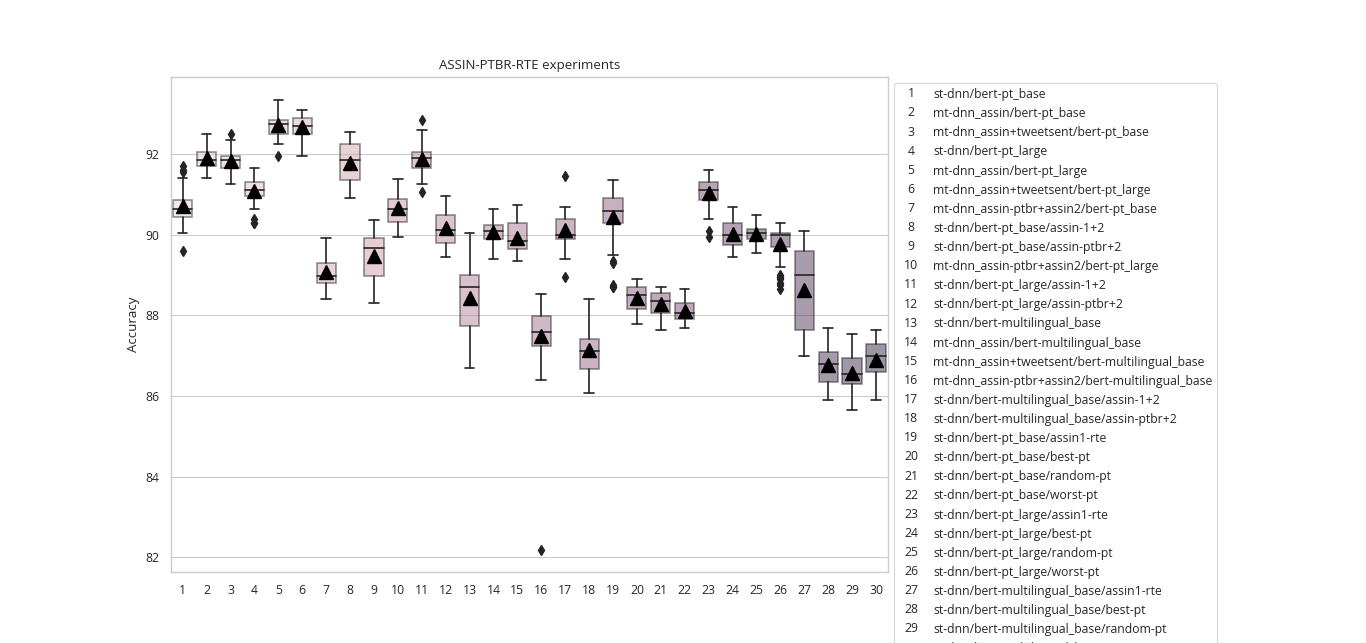
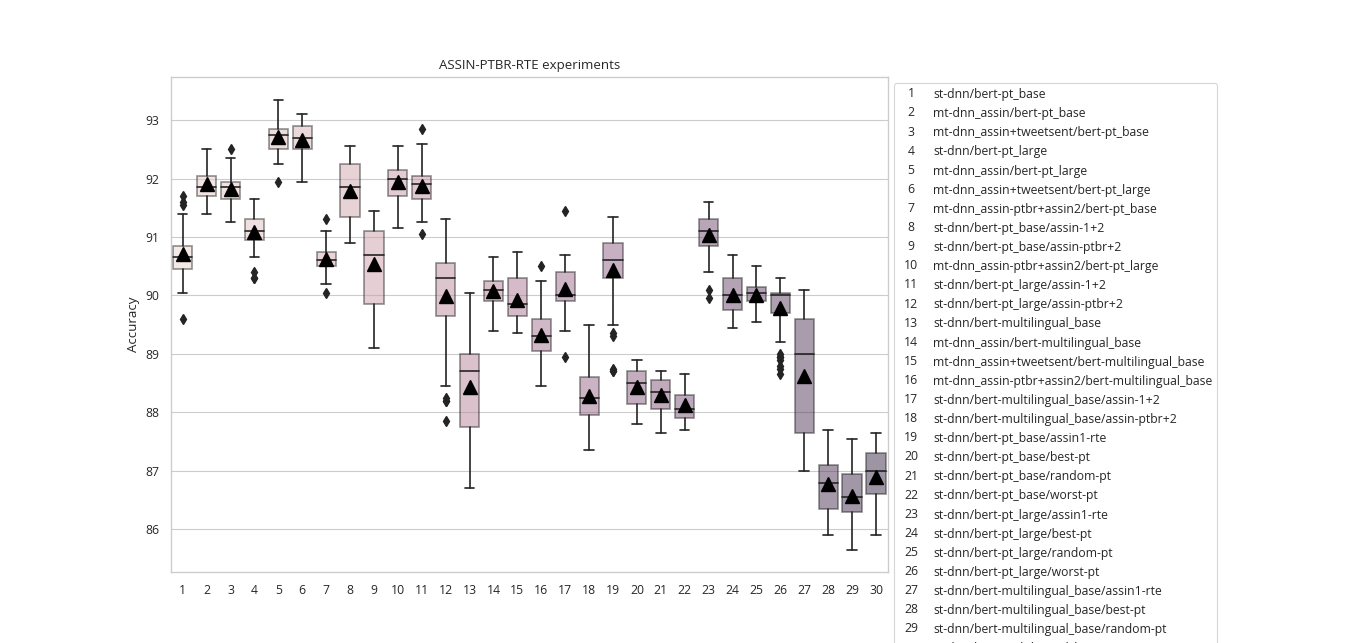
correct task selection

diff --git a/boxplot.py b/boxplot.py
@@ -67,7 +67,7 @@ def get_metric(task: str, task_name: str, metric_idx: int) -> tuple:
 def get_evals(report: str, task_name: str, model_set: set):
     tasks = re.split('corpus.*|Saving generated XMLs...', report)
     tasks = [task for task in tasks
-             if task_name in task and any(model in task for model in model_set)]
+             if f'{task_name}_eval.txt' in task and any(model in task for model in model_set)]
     pattern = re.compile(r'report/(.*?/.*?)/.*/dropout/\d+\.\d+(/*.*)/.*?txt')
     evals = {re.search(pattern, task).group(1) + re.search(pattern, task).group(2): task
              for task in tasks}
@@ -97,7 +97,6 @@ def get_scores_dict(filepath: str, task_name: str, metric_idx: int, model_set: s
 
         evals = {key: value for key, value in evals.items()
                     if not any(model in key for model in cabezudo)}
-
 
     scores = {key: get_metric(value, task_name, metric_idx)
               for key, value in evals.items()}
@@ -161,7 +160,7 @@ def box_plot(df):
     return fig, graph
 
 
-def draw_blox_plot(scores_dict_lst: List[dict], task_name: str, metric_idx: int, graph_title: str):
+def draw_blox_plot(scores_dict_lst: List[dict], task_name: str, models_lang: str, metric_idx: int, graph_title: str):
     xlabel = "Aproaches"
     ylabel = get_metric_name(metric_idx, is_assin(task_name))
 
@@ -171,6 +170,8 @@ def draw_blox_plot(scores_dict_lst: List[dict], task_name: str, metric_idx: int,
     fig, graph = box_plot(df)
     graph.set_title(graph_title)
     graph.set_ylabel(ylabel)
+    #fig.tight_layout()
+    #plt.savefig(f'boxplot/{task_name}_{models_lang}.png')
     plt.show()
 
 
@@ -200,7 +201,7 @@ def main():
         path) if re.search(pattern, filename)]
     scores_dict_lst = [get_scores_dict(
         f'{path}/{filename}', task_name, metric_idx, model_set) for filename in files]
-    draw_blox_plot(scores_dict_lst, task_name, metric_idx, graph_title)
+    draw_blox_plot(scores_dict_lst, task_name, models_lang, metric_idx, graph_title)
 
 
 if __name__ == '__main__':
